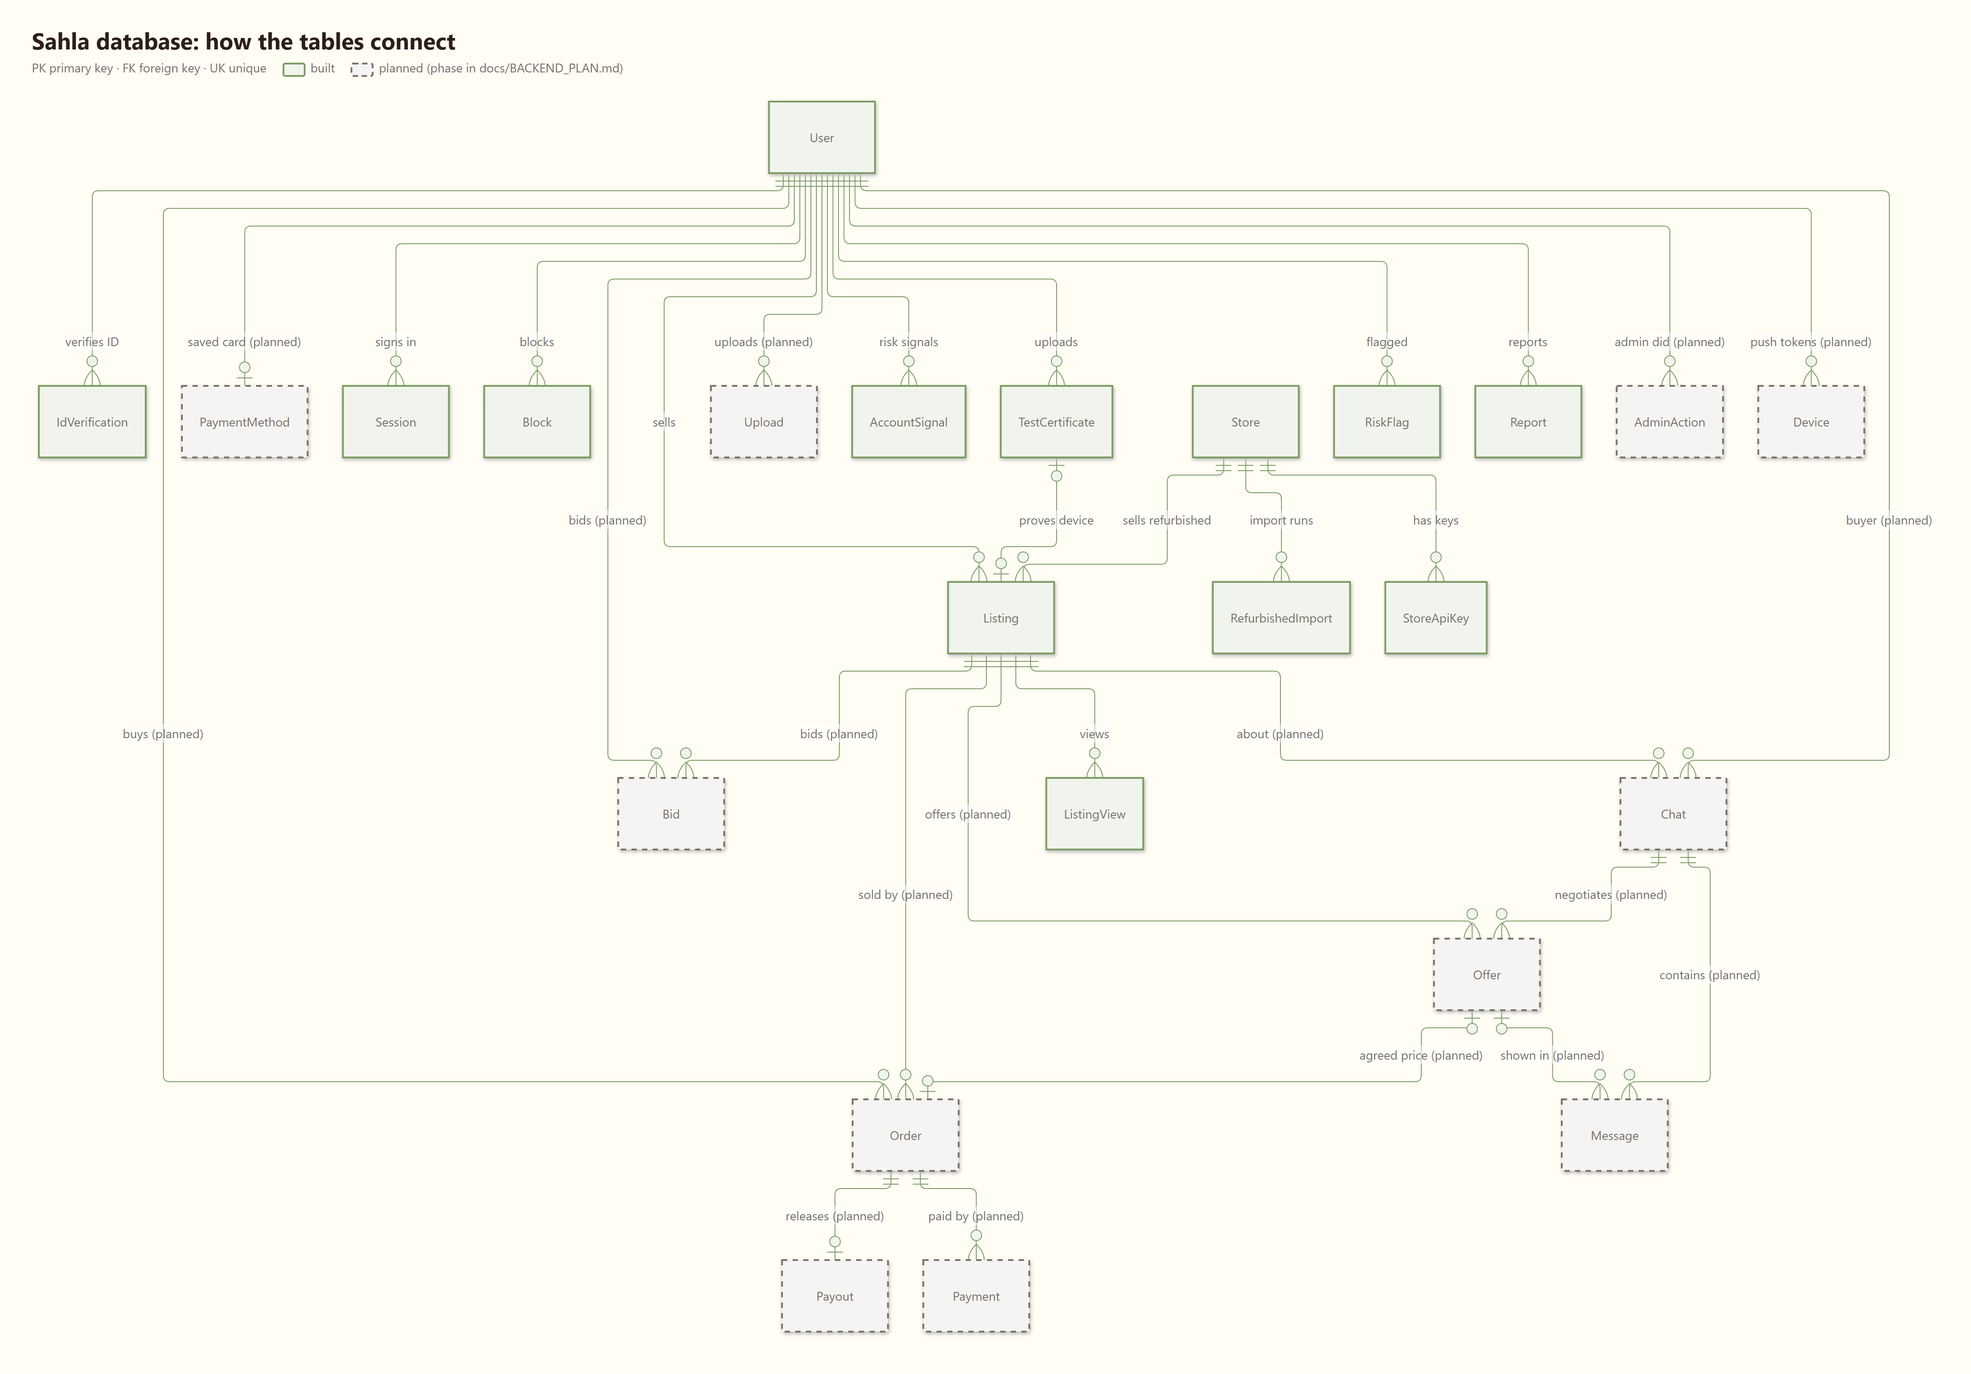
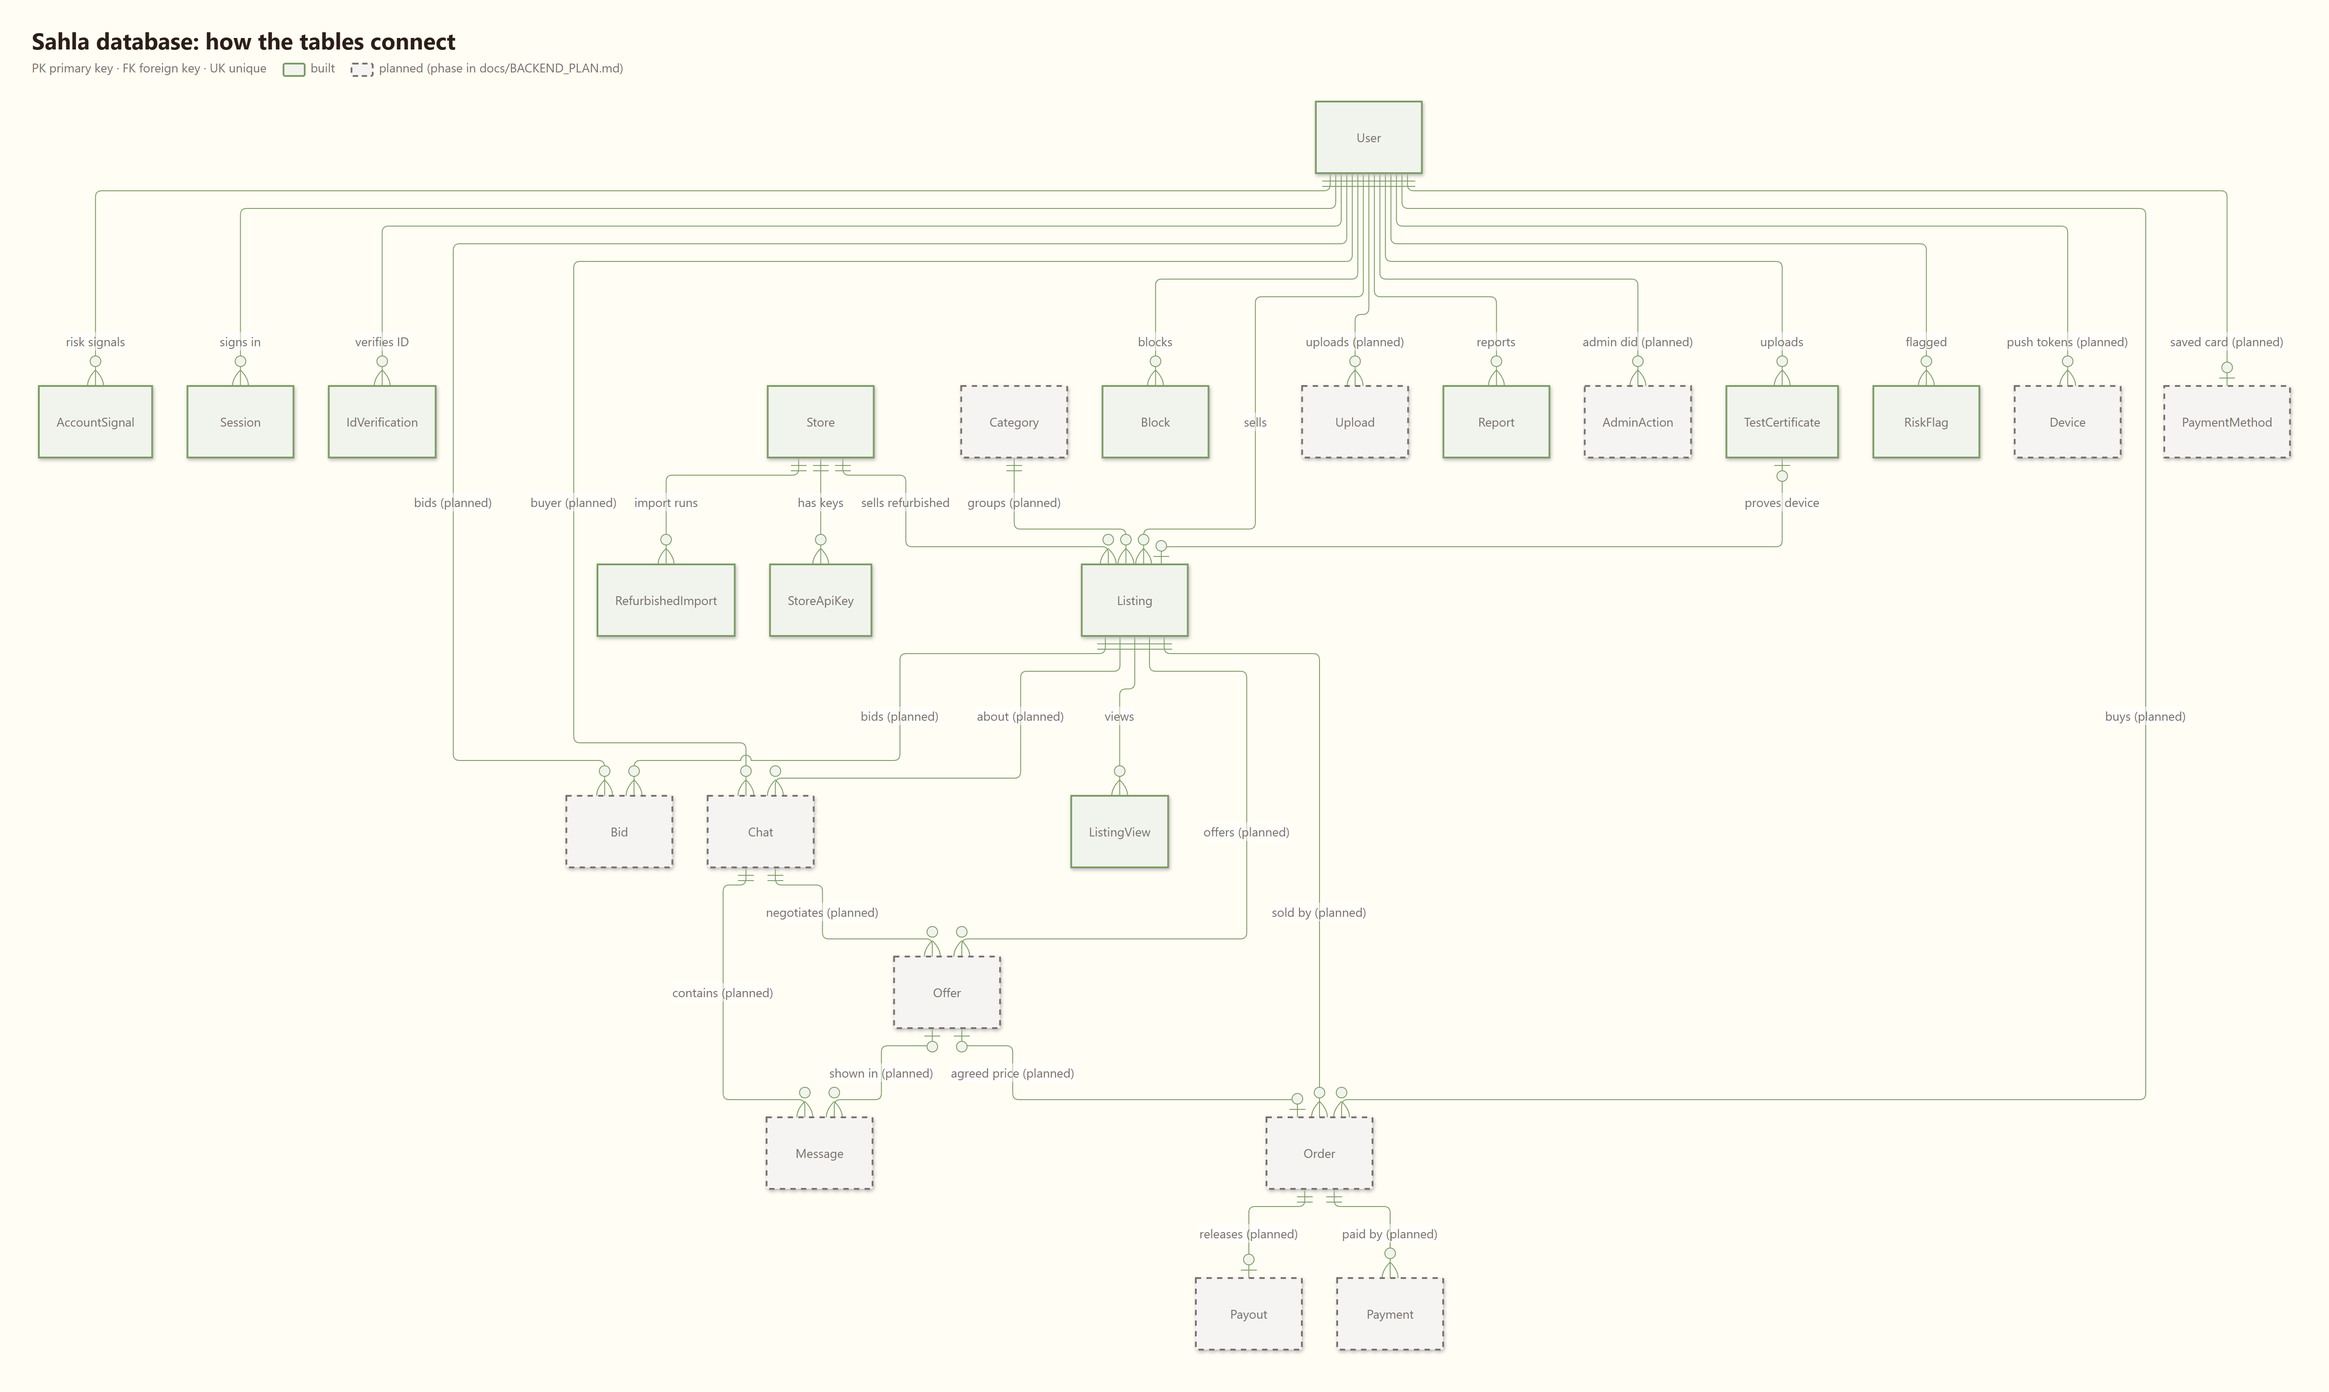
docs: refurbished sourcing options, B13 imported stock, B3 category pictures
- docs/REFURBISHED_SOURCING.md: refurbished = vendor-refurbished customer returns,
  sold only by vendors (or Sahla); stock from Jordanian vendors, Sahla importing graded
  stock from EU / US / UAE B2B suppliers, or order on demand; Jordan rules to check
  (TRC type approval and phone registration, customs and tax, lithium batteries,
  warranty); what the app and backend need
- Plan: decision D8, phase B13 (Sahla's own store, Listing.quantity, landed-cost
  calculator, order on demand later), B3 also covers admin category pictures
  (Category table, PUT /admin/categories/:id/image)
- DATABASE.md and diagrams: planned Category table and Listing.quantity

diff --git a/docs/REFURBISHED_SOURCING.md b/docs/REFURBISHED_SOURCING.md
@@ -1,0 +1,79 @@
+# Certified Refurbished: what it is and where the stock comes from
+
+## What "refurbished" means on Sahla
+
+**Devices a customer returned to the vendor (usually for a defect), that the vendor repaired, tested and
+sells again, with a warranty.** The seller is always the vendor (or Sahla itself, see below), never an
+app user:
+
+- Users can't list refurbished items: `POST /listings` refuses the `refurbished_*` conditions.
+- Refurbished stock only arrives through a **store account**: the Excel import, the store's API key, or
+  (planned, B8.7) a connector to the store's own online shop.
+- Always **fixed price**: the vendor sets it, no auctions.
+- Every item has a **grade** (like new / excellent / good) and a **warranty** (0–36 months).
+
+## Where the stock can come from
+
+### Option 1: Jordanian vendors (what Sahla supports today)
+Local shops and authorised resellers that already take back and repair returns sell through their own
+store account on Sahla. **No importing, no customs, fast delivery.** Limited by how much refurbished
+stock local shops actually have; there's no Jordanian certification for "refurbished", so Sahla's own
+rules (grade, battery health, warranty, returns) go into each vendor's contract.
+
+### Option 2: Sahla imports stock from Europe / the US / the UAE and sells it itself
+Sahla buys **graded refurbished stock in bulk** from B2B suppliers, ships it to Jordan, clears customs,
+keeps it in Amman, and sells it under its own store account (e.g. `store-sahla` "Sahla Certified").
+
+| Where to buy | What it is | Notes |
+|---|---|---|
+| [Back Market Pro](https://pro.backmarket.com/) | Back Market's business arm: refurbished phones, tablets, laptops | States a 1-year minimum warranty and bank transfer / 30-day terms; check whether they ship to Jordan |
+| [B2B Mobiles Europe](https://www.b2bmobiles.eu/) (Spain) | Wholesale phones, tablets, laptops | Says it supplies the Middle East with graded stock and documents |
+| [RecirQ](https://www.recirqglobal.com/) (US) | Used and refurbished unlocked iPhones and other phones | Says it ships to resellers in the Middle East |
+| [HGC Technologies](https://hgctechnologies.uk/wholesale/) (UK) | Refurbished laptops | Says it ships 50–150+ unit batches to GCC buyers |
+| UAE wholesalers, e.g. [UAEPC](https://uaepc.com/en/products/laptops), [Recycle Emirates](https://www.africa-business.com/profiles/recycle.html), [GSMBid](https://gsmbid.com/) (auctions) | Graded laptops and phones, often with minimum orders (~100 pieces) | **Closest**: cheaper and faster shipping to Amman than Europe / the US |
+| [B-Stock](https://bstock.com/) (US) | Retailers' **customer returns** (Walmart, Best Buy, …) in lots | Cheapest, closest to "returned for a defect", but **not refurbished**: Sahla (or a partner repair shop) must test, repair and grade every unit. Buyers arrange their own shipping |
+
+These are the suppliers' own descriptions; check each one (samples, references, warranty terms, export
+documents) before paying.
+
+**Why this option first if you import:** stock is already in Jordan when a customer buys, so delivery
+is 1–2 days, escrow works as today, returns are local, and customs and approvals are done once per
+shipment, not per customer.
+
+### Option 3: Order on demand (no stock)
+Sahla lists items from a foreign supplier's catalogue (with their permission and feed), and orders each
+one only after a customer pays; the supplier or a forwarder ships it to Jordan. **No money tied up in
+stock, but:** 1–3 weeks delivery, customs and approvals per parcel, prices that change with shipping,
+and returns that go back abroad. Better as a later step, for expensive or rare items, once Option 2 runs.
+
+## Before importing: rules in Jordan to check (with a customs broker)
+
+- **Phones and other wireless devices need TRC type approval** (Telecommunications Regulatory
+  Commission; under the 2025 instructions it reportedly takes 6–10 weeks per model and needs a business
+  licence, a Declaration of Conformity, test reports and a GSMA IMEI certificate). Imported phones must
+  also be **registered**, or carriers can block them. The personal-use allowance (reportedly up to 6
+  phones) does **not** cover selling. Sources: [Telecompaper](https://www.telecompaper.com/news/jordans-trc-orders-registration-of-imported-mobile-devices--1534037),
+  [C-PRAV](https://c-prav.com/2025/11/13/jordan-updates-its-type-approval-framework-for-telecom-equipment/),
+  [Nanotech](https://www.nanotechsol.com/jordan-trc-type-approval).
+- **Customs and tax:** the [Jordan Trade Portal](https://tradeportal.customs.gov.jo/procedure/1771/step/10710?l=en)
+  lists a mobile-phone import procedure with its own duties and taxes step; brokers say duty on
+  electronics is often 0–10% (often 0% under the US–Jordan or EU–Jordan agreements, with rules of
+  origin), plus sales tax. Get exact figures per product from a broker.
+- **Lithium batteries** (every phone and laptop) have special air-freight rules; the freight forwarder
+  handles the packing and paperwork.
+- **Warranty:** manufacturer refurbished warranties are often valid only in the country of sale, so the
+  supplier's or **Sahla's own warranty** is what the customer gets. Price it in.
+- **Start with laptops and tablets** if phone approvals are slow; check whether Wi-Fi devices need
+  type approval too.
+
+## What this means for the app and backend
+
+| Need | Status |
+|---|---|
+| Sahla's own store account (`store-sahla`), stock imported with the Excel sheet | ✅ works today (`npm run store`) |
+| Users can't list refurbished | ✅ |
+| **Several identical units under one listing** (bulk stock: 20 × iPhone 13 128GB grade A) | planned: `Listing.quantity` for store listings; an order reserves one unit, the listing stays on sale until the last |
+| **Landed-cost price calculator** in the dashboard (buy price + shipping + customs + tax + approval + warranty + margin → JOD price) | planned (dashboard) |
+| Order on demand (Option 3): "ships from abroad, 1–3 weeks", order steps for ordering, transit and customs | later, only if Option 3 is chosen |
+
+See `BACKEND_PLAN.md` → B13 and decision D8.

diff --git a/docs/DATABASE.md b/docs/DATABASE.md
@@ -34,6 +34,7 @@ erDiagram
   User ||--o{ IdVerification : "verifies ID"
   User ||--o{ Device : "push tokens (planned)"
   User ||--o{ Upload : "uploads (planned)"
+  Category ||--o{ Listing : "groups (planned)"
   Store ||--o{ Listing : "sells refurbished"
   Store ||--o{ StoreApiKey : "has keys"
   Store ||--o{ RefurbishedImport : "import runs"
@@ -161,6 +162,7 @@ erDiagram
   TestCertificate |o--o| Listing : "used by one"
   Listing ||--o{ ListingView : "counted"
   User ||--o{ Upload : "uploads (planned B3)"
+  Category ||--o{ Listing : "groups (planned B3)"
   Listing {
     text id PK "cuid"
     text category "category id"
@@ -186,6 +188,7 @@ erDiagram
     text sellerUserId FK "seller is a user..."
     text storeId FK "...or a store"
     text sku "store's own id"
+    int quantity "store stock units (planned B13)"
     int warrantyMonths "refurbished (fixed price only)"
     text testCertificateId FK,UK
     timestamp createdAt
@@ -240,6 +243,12 @@ erDiagram
     bool stampChecked
     timestamp createdAt
   }
+  Category {
+    text id PK "mobiles, electronics, ... (planned B3)"
+    text imageUrl "picture an admin uploaded"
+    text updatedById FK "admin"
+    timestamp updatedAt
+  }
   ListingView {
     text listingId PK,FK
     text viewerKey PK "user or device"
@@ -260,12 +269,13 @@ erDiagram
 
 | Table | Status | Purpose and rules | Indexes |
 |---|---|---|---|
-| **Listing** | ✅ B2 | Everything for sale. Exactly one of `sellerUserId` / `storeId` is set (stores = refurbished only, **always fixed price**: never `saleType = auction`). `searchText` and `sellerVerified` are copies kept for fast search and sorting. Status: `active` → `reserved` (paid) → `sold` (delivered); refund → `active`; `withdrawn` = deleted, never shown. | `(category, status)`, `sellerUserId`, `(storeId, sku)` unique, `testCertificateId` unique, GIN `pg_trgm` on `searchText`, `(status, saleType, auctionEndsAt)`, `(status, sellerVerified, createdAt)`, `(status, priceFils)`, `locationId` |
+| **Listing** | ✅ B2 | Everything for sale. Exactly one of `sellerUserId` / `storeId` is set (stores = refurbished only, **always fixed price**: never `saleType = auction`; users can't list `refurbished_*`). `quantity` (B13): identical units of a store listing; orders take one each. `searchText` and `sellerVerified` are copies kept for fast search and sorting. Status: `active` → `reserved` (paid) → `sold` (delivered); refund → `active`; `withdrawn` = deleted, never shown. | `(category, status)`, `sellerUserId`, `(storeId, sku)` unique, `testCertificateId` unique, GIN `pg_trgm` on `searchText`, `(status, saleType, auctionEndsAt)`, `(status, sellerVerified, createdAt)`, `(status, priceFils)`, `locationId` |
 | **Store** | ✅ B0 | A brand's official refurbished store; its id is the listings' `sellerId`. | — |
 | **StoreApiKey** | ✅ B0 | Keys a brand's system imports with. Shown once, stored hashed, can be revoked. | `keyHash` unique |
 | **RefurbishedImport** | ✅ B0 | One row per import run (dashboard history). | `(storeId, createdAt)` |
 | **TestCertificate** | ✅ table, endpoint B4 | A checked photo of a shop's test report. A listing of a phone / electronics type needs a `passed` one; each is used by one listing only. | `userId`, `imageHash` |
 | **ListingView** | ✅ B2.5 | Counts a viewer once a day; `Listing.views` is the total. | primary key `(listingId, viewerKey, day)` |
+| **Category** | planned B3 | The 8 categories' pictures, changeable by an admin. Names, icons and item types stay in the shared reference files; `Listing.category` keeps its id (becomes a foreign key here). | — |
 | **Upload** | planned B3 | Every uploaded file. `POST /listings` accepts only URLs from here; unused ones are deleted after a day. | `(userId)`, `(usedAt, createdAt)` |
 
 ---

diff --git a/docs/BACKEND_PLAN.md b/docs/BACKEND_PLAN.md
@@ -30,6 +30,7 @@ endpoint does), [`DATABASE.md`](DATABASE.md) the database design and [`backend/R
 | D5 | Admin dashboard | Own web app in this repo (`admin/`, React + Vite) calling the same API · AdminJS (generated, less flexible) | B8 | _Own web app on the same API recommended (see B8)_ |
 | D6 | Reverse geocoding (street from GPS) | Google Geocoding · HERE · Mapbox · self-hosted Nominatim (free) | B7 | |
 | D7 | Search engine | Postgres only (enough to launch) · Meilisearch later for typo tolerance | B2 | _Postgres first_ |
+| D8 | Where refurbished stock comes from (`REFURBISHED_SOURCING.md`) | 1 Jordanian vendors · 2 Sahla imports graded stock (EU / US / UAE) and sells it · 3 order on demand | B13 | _1 now, 2 next; 3 later_ |
 
 ---
 
@@ -70,6 +71,7 @@ endpoint does), [`DATABASE.md`](DATABASE.md) the database design and [`backend/R
 - _Blocks (B5) later filter these lists too._
 
 ## B3 — Photo uploads ⬜ (needs D1 for production; local disk in development)
+Two kinds (decided 2026-10-30): **users' listing photos** and **admins changing the category pictures**.
 - ⬜ **B3.1** Storage module: local folder in development, R2/S3 in production, one interface.
 - ⬜ **B3.2** Image pipeline (`sharp`): check the real file type from its bytes, strip EXIF (GPS!),
   resize to 1600 px + a 400 px thumbnail, WebP/JPEG.
@@ -79,6 +81,10 @@ endpoint does), [`DATABASE.md`](DATABASE.md) the database design and [`backend/R
   (Contract today answers `verified: true` immediately; decide: keep instant for now, or change the
   contract to "pending" and update the app.)
 - ⬜ **B3.6** Clean-up job: delete uploads no listing uses after 24 h.
+- ⬜ **B3.7** Category pictures from the database: a `Category` table (`id`, `imageUrl`, `updatedById`,
+  `updatedAt`); `GET /categories` uses it, falling back to the bundled tiles.
+- ⬜ **B3.8** `PUT /admin/categories/:id/image` (admin only, same image pipeline, logged); the dashboard button
+  comes in B8.
 
 ## B4 — Selling + test certificates ⬜ (needs a Google Vision key for real OCR)
 - ⬜ **B4.1** `POST /listings`: every rule in `API.md` (description ≥ 10 words, conditions, our photo URLs
@@ -182,10 +188,23 @@ Tasks:
 - ⬜ **B12.6** Privacy policy + data deletion rules (ID photos, coordinates, deleted accounts).
 - ⬜ **B12.7** App release builds use `https://api.sahla.jo/v1`; contract server kept for app tests only.
 
+## B13 — Imported refurbished stock (Sahla as the seller) ⬜ (D8; see `REFURBISHED_SOURCING.md`)
+- ⬜ **B13.1** Sahla's own store account (`store-sahla`) and its terms (grading, warranty, returns).
+- ⬜ **B13.2** `Listing.quantity` for store listings: several identical units under one listing; an order
+  reserves one unit; the listing sells out at 0. Import column `quantity` (default 1).
+- ⬜ **B13.3** Landed-cost calculator in the dashboard: buy price, shipping, customs, tax, approval,
+  warranty, margin → JOD price, saved with each import.
+- ⬜ **B13.4** (only if D8 = 3) order on demand: "ships from abroad" listings, delivery estimate, order steps
+  for ordering, transit and customs.
+- **Not code:** a customs broker, TRC type approval per phone model, a freight forwarder, the first sample
+  order from one supplier.
+
 ---
 
 ## Log
 Short notes on what changed, newest first.
+- 2026-10-30: refurbished = vendor-refurbished customer returns, sold only by vendors (or Sahla); sourcing
+  options in `REFURBISHED_SOURCING.md`, phase B13; B3 also covers admin category pictures.
 - 2026-10-30: certified refurbished listings are fixed price only (vendors set the price): no auction
   columns in the import or template, app store screen without format tabs (API.md change log).
 - 2026-10-30: database design with pictures (`docs/DATABASE.md`, `docs/database/*.png`).

diff --git a/README.md b/README.md
@@ -22,6 +22,7 @@ own API (Express + PostgreSQL).
 | [`DEVELOPMENT_GUIDE.md`](DEVELOPMENT_GUIDE.md) | Rules, architecture, design system, roadmap and phase status |
 | [`docs/API.md`](docs/API.md) | The API contract both sides are built against |
 | [`docs/BACKEND_PLAN.md`](docs/BACKEND_PLAN.md) | The backend, phase by phase |
+| [`docs/REFURBISHED_SOURCING.md`](docs/REFURBISHED_SOURCING.md) | What refurbished means on Sahla and where the stock comes from (Jordan, Europe, US, UAE) |
 | [`docs/DATABASE.md`](docs/DATABASE.md) | The database design: every table, column and connection, with pictures in `docs/database/` |
 | [`frontend/.maestro/README.md`](frontend/.maestro/README.md) | End-to-end tests and demo accounts |
 

diff --git a/backend/docs/REFURBISHED.md b/backend/docs/REFURBISHED.md
@@ -1,5 +1,9 @@
 # Certified Refurbished: collecting stock
 
+**Refurbished on Sahla** = devices a customer returned to the vendor (usually for a defect), repaired,
+tested and resold **by the vendor** with a grade and a warranty, at a fixed price. Never listed by app users.
+Where stock can come from, including importing from Europe / the US: [`docs/REFURBISHED_SOURCING.md`](../../docs/REFURBISHED_SOURCING.md).
+
 Refurbished items never come from the app. Each brand (or official dealer) gets a **store account**
 (`store-apple` → "Apple Certified") and sends its stock in one of two ways. Both run the same checks
 (`frontend/src/lib/refurbishedImport.ts`, shared with the app) through `src/modules/refurbished/`.
